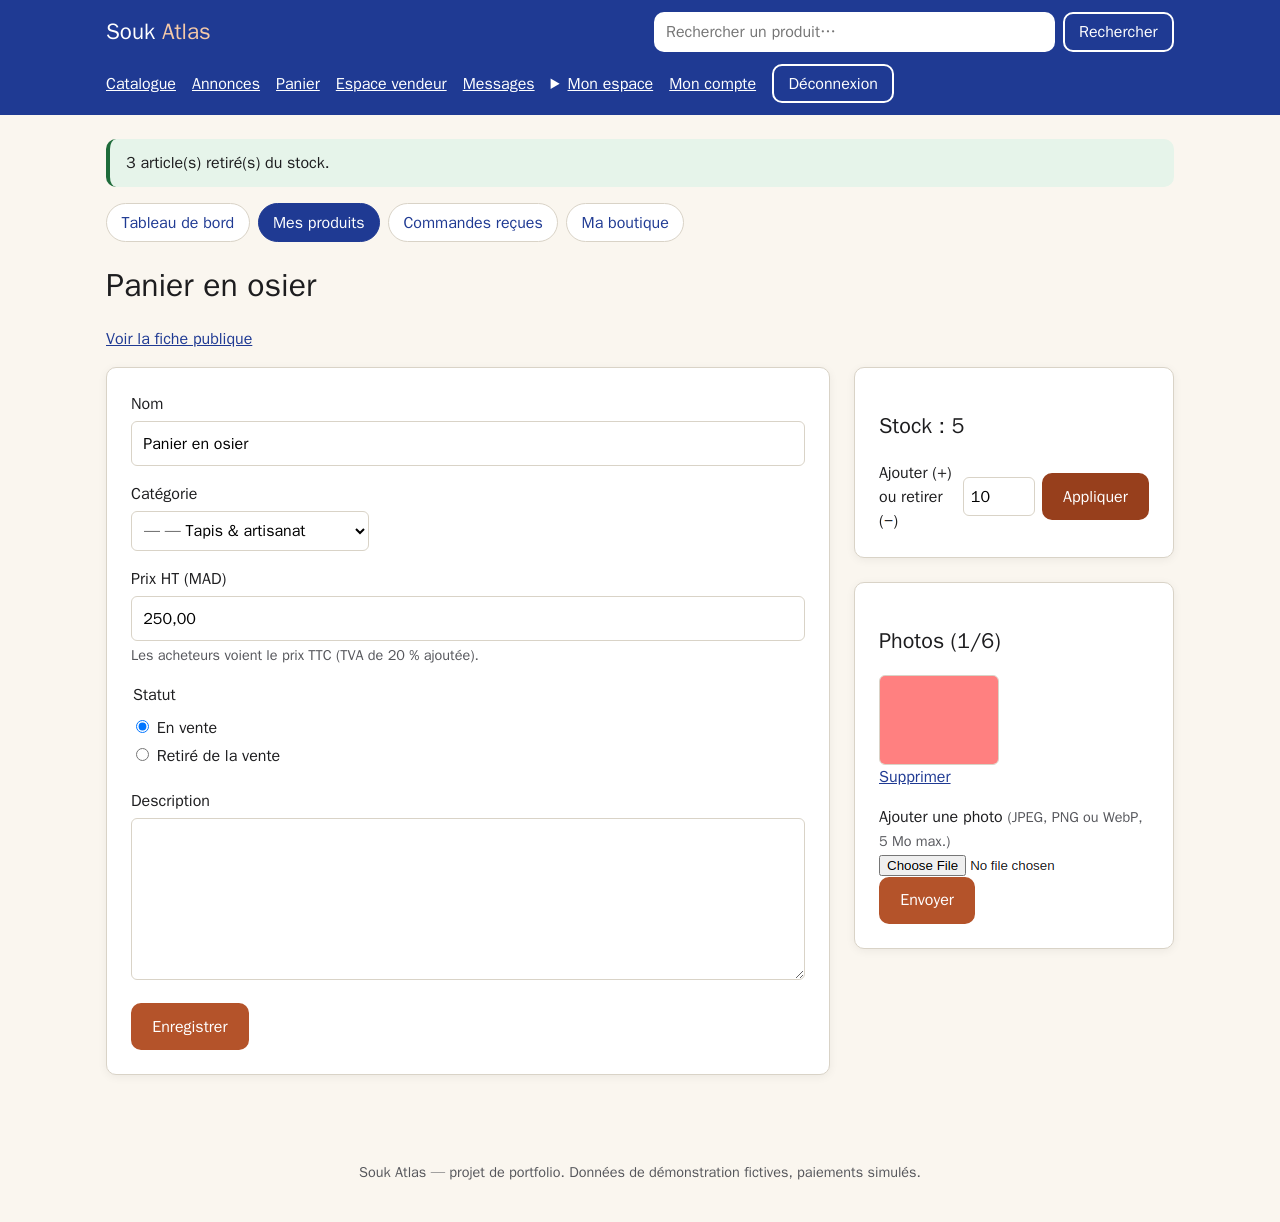
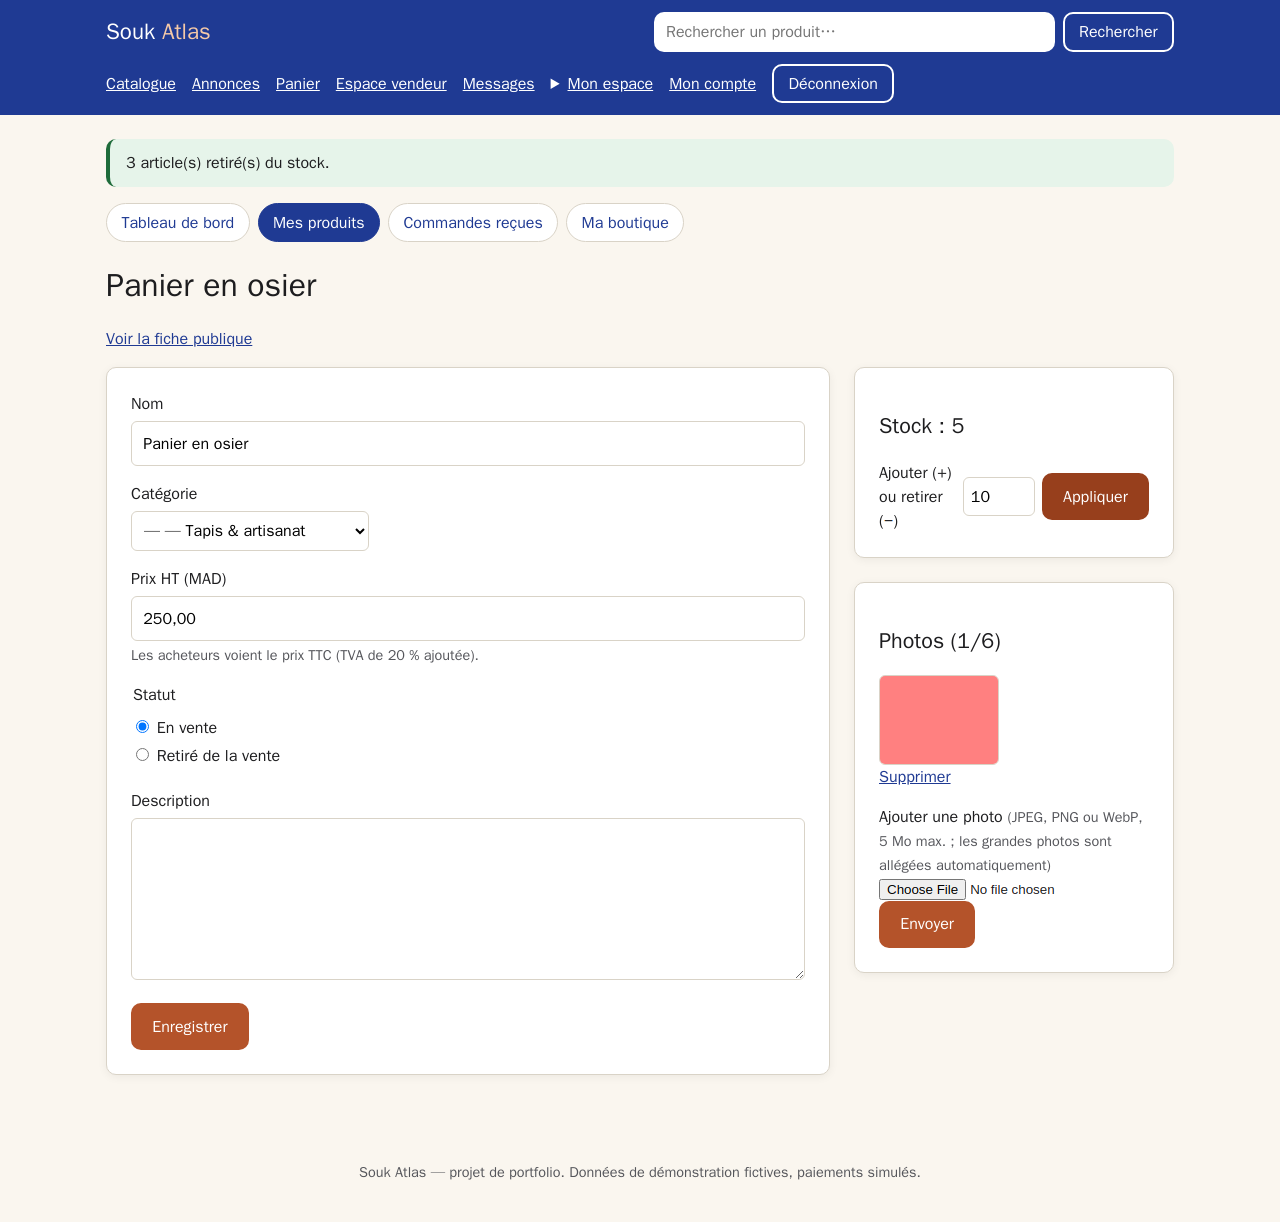
test: WebAssembly et repli JavaScript dans le navigateur

Changed region(s): [[0.6875, 0.6841, 0.8438, 0.7774]]

diff --git a/tests/navigateur/wasm.spec.js b/tests/navigateur/wasm.spec.js
@@ -1,0 +1,144 @@
+// =============================================================================
+// Tests navigateur de l'étape 10 : module WebAssembly et repli JavaScript.
+// Critères : « smartphon samsng » trouve « Smartphone Samsung » ;
+//            une photo de 5 Mo part allégée.
+// =============================================================================
+import { test, expect } from '@playwright/test';
+
+const CAPTURES = '../../docs/captures';
+
+/** Erreurs JavaScript : font échouer le test (sauf quand on provoque exprès une panne) */
+test.beforeEach(async ({ page }) => {
+    const erreurs = [];
+    page.on('pageerror', (erreur) => erreurs.push(erreur.message));
+    page.on('console', (message) => { if (message.type() === 'error') erreurs.push(message.text()); });
+    test.info().erreursConsole = erreurs;
+});
+test.afterEach(async () => {
+    if (!test.info().annotations.some((a) => a.type === 'panne-volontaire')) {
+        expect(test.info().erreursConsole, 'erreurs dans la console du navigateur').toEqual([]);
+    }
+});
+
+async function chercher(page, texte) {
+    await page.getByRole('combobox', { name: /Rechercher/ }).fill(texte);
+    return page.getByRole('listbox');
+}
+
+for (const [moteur, url] of [['WebAssembly', '/'], ['JavaScript', '/?moteur=js']]) {
+    test(`recherche tolérante (${moteur}) : « smartphon samsng » trouve « Smartphone Samsung »`, async ({ page }) => {
+        const wasm = [];
+        page.on('request', (requete) => { if (requete.url().endsWith('.wasm')) wasm.push(requete.url()); });
+        await page.goto(url);
+        const liste = await chercher(page, 'smartphon samsng');
+        const option = liste.getByRole('option', { name: /Smartphone Samsung Galaxy A55/ });
+        await expect(option).toBeVisible();
+        await expect(option).toContainText('orthographe approchée');
+        await expect(liste).toHaveAttribute('data-moteur', moteur);
+        await expect(liste.getByRole('option', { name: /Xiaomi/ })).toHaveCount(0);   // pas n'importe quoi
+        expect(wasm.length > 0).toBe(moteur === 'WebAssembly');
+
+        // Une autre faute, une transposition : « Samsugn »
+        await chercher(page, 'tablete samsugn');
+        await expect(page.getByRole('option', { name: /Tablette Samsung/ })).toBeVisible();
+        if (moteur === 'WebAssembly') {
+            await page.setViewportSize({ width: 1280, height: 600 });
+            await chercher(page, 'smartphon samsng');
+            await expect(option).toBeVisible();
+            await page.screenshot({ path: `${CAPTURES}/etape10-recherche-tolerante.png` });
+        }
+    });
+}
+
+test('repli JavaScript si le fichier .wasm ne se charge pas', async ({ page }) => {
+    // La panne provoquée écrit des erreurs dans la console : c'est attendu ici
+    test.info().annotations.push({ type: 'panne-volontaire' });
+    await page.route('**/*.wasm', (route) => route.abort());
+    await page.goto('/');
+    const liste = await chercher(page, 'smartphon samsng');
+    await expect(liste.getByRole('option', { name: /Smartphone Samsung Galaxy A55/ })).toBeVisible();
+    await expect(liste).toHaveAttribute('data-moteur', 'JavaScript');
+});
+
+test('suggestions exactes du serveur en premier, puis les approchées', async ({ page }) => {
+    await page.goto('/');
+    const liste = await chercher(page, 'samsung');
+    await expect(liste.getByRole('option').first()).not.toContainText('orthographe approchée');
+});
+
+/** Photo JPEG de 4000 × 3000 px et d'un peu plus de 5 Mo, générée dans le navigateur */
+async function photoDeCinqMo(page) {
+    const base64 = await page.evaluate(async () => {
+        const toile = new OffscreenCanvas(4000, 3000);
+        const ctx = toile.getContext('2d');
+        const image = ctx.createImageData(4000, 3000);
+        let graine = 42;   // hasard reproductible
+        const hasard = () => ((graine = (graine * 1103515245 + 12345) & 0x7fffffff) / 0x7fffffff);
+        for (let y = 0; y < 3000; y++) {
+            for (let x = 0; x < 4000; x++) {
+                const i = (y * 4000 + x) * 4;
+                image.data[i] = (x / 16) % 256 + hasard() * 80;
+                image.data[i + 1] = (y / 12) % 256 + hasard() * 80;
+                image.data[i + 2] = 128 + hasard() * 80;
+                image.data[i + 3] = 255;
+            }
+        }
+        ctx.putImageData(image, 0, 0);
+        const blob = await toile.convertToBlob({ type: 'image/jpeg', quality: 0.9 });
+        const octets = new Uint8Array(await blob.arrayBuffer());
+        let binaire = '';
+        for (let i = 0; i < octets.length; i += 0x8000) binaire += String.fromCharCode(...octets.subarray(i, i + 0x8000));
+        return btoa(binaire);
+    });
+    return Buffer.from(base64, 'base64');
+}
+
+for (const [moteur, suffixe] of [['WebAssembly', ''], ['JavaScript', '?moteur=js']]) {
+    test(`une photo de 5 Mo part allégée (${moteur})`, async ({ page }) => {
+        test.setTimeout(90_000);
+        const email = `test-wasm-${moteur.toLowerCase()}@exemple.ma`;
+        await page.goto('/inscription');
+        await page.getByLabel('Nom complet').fill('Compte Test Photo');
+        await page.getByLabel('Email').fill(email);
+        await page.getByLabel('Mot de passe', { exact: true }).fill('motdepasse1');
+        await page.getByLabel('Confirmer le mot de passe').fill('motdepasse1');
+        await page.getByRole('button', { name: /Créer mon compte/ }).click();
+
+        await page.goto('/annonces/nouvelle');
+        await page.getByLabel('Titre').fill('Lampe en laiton test photo');
+        await page.getByLabel('Description').fill('Lampe ciselée, très bon état.');
+        await page.getByLabel(/Prix/).fill('350');
+        await page.getByLabel('Ville').fill('Fès');
+        await page.getByLabel('Catégorie').selectOption('14');   // Tapis & artisanat
+        await page.getByRole('button', { name: /Publier/ }).click();
+        await expect(page).toHaveURL(/\/mes-annonces\/\d+$/);
+        if (suffixe) await page.goto(page.url() + suffixe);
+
+        const photo = await photoDeCinqMo(page);
+        expect(photo.length).toBeGreaterThan(5 * 1024 * 1024);   // au-delà de la limite du serveur
+
+        await page.getByLabel(/Ajouter une photo/).setInputFiles({ name: 'photo-5mo.jpg', mimeType: 'image/jpeg', buffer: photo });
+        const message = page.locator('.photo-allegee');
+        await expect(message).toContainText('Photo allégée : 5,', { timeout: 30_000 });
+        await expect(message).toHaveAttribute('data-moteur', moteur);
+        const taille = await page.getByLabel(/Ajouter une photo/).evaluate((champ) => champ.files[0].size);
+        expect(taille).toBeLessThan(1024 * 1024);   // moins d'1 Mo au lieu de plus de 5
+        if (moteur === 'WebAssembly') await page.screenshot({ path: `${CAPTURES}/etape10-photo-allegee.png` });
+
+        // Ce qui part réellement sur le réseau
+        const [envoi] = await Promise.all([
+            page.waitForRequest((r) => r.method() === 'POST' && /\/photos$/.test(r.url())),
+            page.getByRole('button', { name: 'Envoyer' }).click(),
+        ]);
+        // (Playwright ne donne pas le corps d'un envoi de fichier : on lit sa longueur annoncée)
+        expect(Number((await envoi.allHeaders())['content-length'])).toBeLessThan(1024 * 1024);
+        await expect(page.getByText('Photo ajoutée.')).toBeVisible();
+
+        // La photo enregistrée par le serveur fait 1600 × 1200 px
+        const dimensions = await page.locator('.photos-vendeur img').first().evaluate(async (img) => {
+            await img.decode();
+            return [img.naturalWidth, img.naturalHeight];
+        });
+        expect(dimensions).toEqual([1600, 1200]);
+    });
+}
